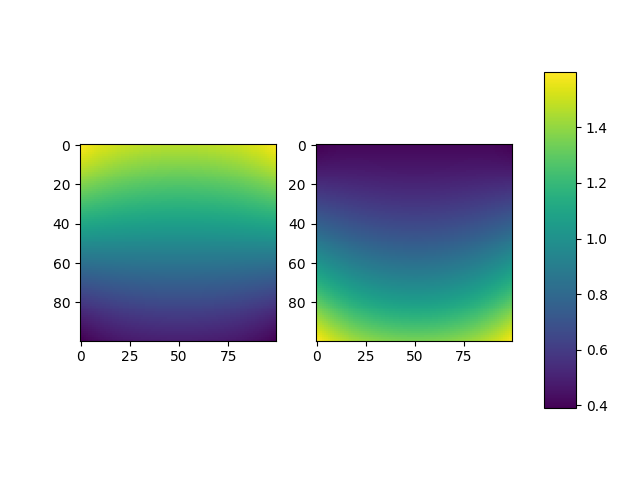
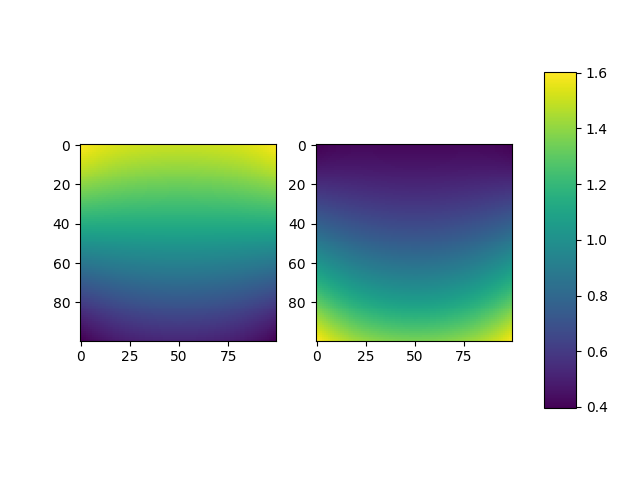
questionable progress

diff --git a/last_exps/3/nonstationary.py b/last_exps/3/nonstationary.py
@@ -1,3 +1,5 @@
+'''Оценка влияния скачка коэфициента теплопроводности на тепловое излучение'''
+
 from dolfin import *
 # noinspection PyUnresolvedReferences
 from dolfin import dx, ds
@@ -14,6 +16,7 @@ from phd_3.experiments.solver import Problem
 
 from phd_3.experiments.consts import DIRICHLET, NEWMAN
 
+set_log_level(LogLevel.ERROR)
 parameters["form_compiler"]["optimize"] = True
 parameters["form_compiler"]["cpp_optimize"] = True
 solver_params = {"newton_solver": {
@@ -43,17 +46,7 @@ vector_space = VectorFunctionSpace(omega, 'CG', 1)
 v, h = TestFunctions(state_space)
 state = Function(state_space)
 theta, phi = split(state)
-
-
-def sigma_src(t):
-    tt = project(t, simple_space)
-
-    class Sigma(UserExpression):
-        def eval(self, values, x):
-            values[0] = 1 if tt(x) > 0.5 else 0.1
-
-    return project(Sigma(), simple_space)
-
+m_param = 10
 
 theta_b = project(Expression('0.2 + x[1] / 2', degree=2), simple_space)
 theta_b_4 = project(Expression('pow(t, 4)', degree=2, t=theta_b, ), simple_space)
@@ -61,9 +54,21 @@ theta_in = project(Expression('0.8 * cos(x[1]*10)', degree=2), simple_space)
 theta_f = project(Expression("sin(x[1]*10)*cos(x[0]*10)", degree=2), simple_space)
 phi_g = project(Expression("1 - x[1]", degree=2), simple_space)
 
-qwerty = sigma_src(theta)
+theta_prev = theta_in
+
+
+def sigma_src():
+    class Sigma(UserExpression):
+        def eval(self, values, x):
+            values[0] = m_param if theta_prev(x) > 0.1 else 0.1
+
+    return Sigma()
+
+
+qwerty = sigma_src()
+
 theta_equation = (
-        qwerty * inner(theta, v) * dx
+        qwerty * inner(theta - theta_prev, v) * dx
         + a * inner(grad(theta), grad(v)) * dx
         + a * theta * v * ds
         + b * ka * inner(theta ** 4 - phi, v) * dx
@@ -73,15 +78,20 @@ theta_src = inner(a * theta_b, v) * ds
 phi_equation = \
     alpha * inner(grad(phi), grad(h)) * dx \
     + alpha * phi * h * ds \
-    + ka * inner(phi - theta ** 4, h) * dx
+    + ka * inner(phi - theta_prev ** 4, h) * dx
 phi_src = phi_g * h * ds
 
-solve(
-    theta_equation + phi_equation - theta_src - phi_src == 0, state,
-    form_compiler_parameters={"optimize": True, 'quadrature_degree': 3}
-)
-theta, phi = state.split()
-a = theta.vector()
+for i in range(10):
+    solve(
+        theta_equation + phi_equation - theta_src - phi_src == 0, state,
+        form_compiler_parameters={"optimize": True, 'quadrature_degree': 3}
+    )
+    theta, phi = state.split()
+    a = phi.vector()
+    theta_prev.interpolate(theta)
+
+    # m_param += 10
+    print(a.min(), a.max())
 
 print_two_with_colorbar(theta, phi, "answer", folder="")
 pass
